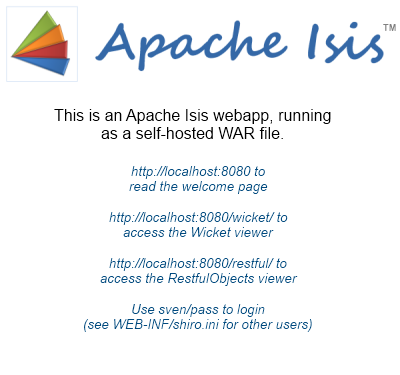
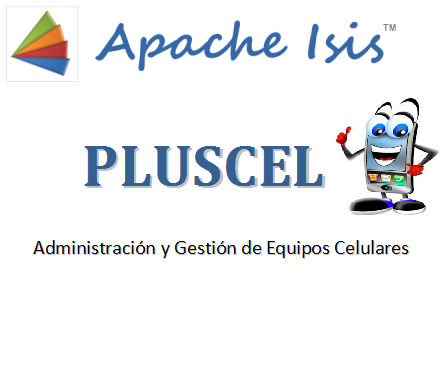
Modifico diseño de ingreso

diff --git a/webapp/src/main/webapp/about/index.html b/webapp/src/main/webapp/about/index.html
@@ -17,88 +17,38 @@
   specific language governing permissions and limitations
   under the License.
 -->
-<html>
-    <head>
-        <meta http-equiv="Content-Type" content="text/html; charset=ISO-8859-1">
-        <title>Apache Isis&trade; PlusCel</title>
-        
-        <style type="text/css">
-body {
-    background-color: #1A467B;
-    font-family: Verdana, Helvetica, Arial;
-    font-size: 90%;
-}
 
-li {
-    margin-top: 6px;
-    margin-bottom: 6px;
-}
-table {
-    border-collapse: collapse;
-}
-table, th, td {
-    border: 1px;
-    border-style: solid;
-    border-color: lightgray;
-}
-th, td {
-    padding: 10px;
-}
-#wrapper {
-    background-color: #ffffff;
-    width: 900px;
-    margin: 8px auto;
-    padding: 12px;
-}
-        </style>
-    </head>
-    <body>
-        <div id="wrapper">
-            <img alt="Isis Logo" src="about/images/isis-logo.png" />
-             
-            <p>
-            <a href="http://isis.apache.org" target="_blank">Apache Isis</a>&trade; is a framework to let you rapidly develop
-            domain-driven apps in Java.  This app has been generated using Isis' 
-            <a href="http://isis.apache.org/intro/getting-started/simple%61pp-archetype.html" target="_blank">SimpleApp</a> archetype,
-            which configures Isis to run a very simple and purposefully minimal application.
-            
-            <p>
-            The app itself consists of a single domain class, 
-            <a href="https://github.com/apache/isis/blob/master/example/application/simple%61pp/dom/src/main/java/dom/domainapp/dom/module/simple/SimpleObject.java"  target="_blank"><tt>SimpleObject</tt></a>,
-            along with an equally simple (factory/repository) domain service, <a href="https://github.com/apache/isis/blob/master/example/application/simple%61pp/dom/src/main/java/domainapp/dom/module/simple/SimpleObjects.java" target="_blank"><tt>SimpleObjects</tt></a>.
-            </p>
-
-            <p>To access the app:</p>
-            <ul>
-                <li>
-                    <p>
-                        <b><a href="wicket/">wicket/</a></b>
-                    </p>
-                    <p>
-                        provides accesses to a generic UI for end-users,
-                        Isis' <a href="http://isis.apache.org/components/viewers/wicket/about.html" target="_blank">Wicket Viewer</a>.
-                        As its name suggests, this viewer is built on top of <a href="http://wicket.apache.org" target="_blank">Apache Wicket</a>&trade;.
-                    </p>
-                </li>
-                <li>
-                    <p>
-                        <b>
-                            <a href="restful/">restful/</a>
-                        </b>
-                    </p>
-                    <p>
-                        provides access to a RESTful API conformant with the
-                        <a href="http://restfulobjects.org">Restful Objects</a> spec</td>.  This is part of Isis Core.  The
-                        implementation technology is JBoss RestEasy.
-                    </p>
-                </li>
-            </ul>
-
-            <p>
-            The default user/password is <b><i>sven/pass</i></b> (as configured in the
-            <a href="https://github.com/apache/isis/blob/master/example/application/simple%61pp/webapp/src/main/webapp/WEB-INF/shiro.ini" target="_blank">shiro.ini</a> file).
-            </p>
-            
-        </div>
-    </body>
-</html>
+<HTML>
+<HEAD>
+	<META HTTP-EQUIV="CONTENT-TYPE" CONTENT="text/html; charset=utf-8">
+	<TITLE></TITLE>
+	
+	<STYLE TYPE="text/css">
+	<!--
+		@page { margin: 2cm }
+		P { margin-bottom: 0.21cm }
+		A:link { so-language: zxx }
+	-->
+	</STYLE>
+</HEAD>
+<BODY LANG="es-ES" BGCOLOR="#FFFFFF" DIR="LTR">
+<P STYLE="margin-bottom: 0cm"><BR>
+</P>
+<P STYLE="margin-bottom: 0cm"><BR>
+</P>
+<P STYLE="margin-bottom: 0cm"><BR>
+</P>
+<P STYLE="margin-bottom: 0cm"><BR>
+</P>
+<P STYLE="margin-bottom: 0cm"><BR>
+</P>
+<P ALIGN=CENTER STYLE="margin-bottom: 0cm"><FONT COLOR="#3919BA"><FONT SIZE=7 STYLE="font-size: 96pt">PLUSCEL</FONT></FONT></P>
+<P ALIGN=CENTER STYLE="margin-bottom: 0cm"><FONT SIZE=7 STYLE="font-size: 20pt">Administración y Gestión de Equipos Celulares</FONT></P>
+<P ALIGN=CENTER STYLE="margin-bottom: 0cm"><BR>
+</P>
+<P ALIGN=CENTER STYLE="margin-bottom: 0cm"><A HREF="wicket/"><FONT SIZE=7 STYLE="font-size: 15pt">Ingresar
+al Sistema</FONT></A></P>
+<P STYLE="margin-bottom: 0cm"><BR>
+</P>
+</BODY>
+</HTML>

diff --git a/webapp/src/main/resources/domainapp/webapp/welcome.html b/webapp/src/main/resources/domainapp/webapp/welcome.html
@@ -17,19 +17,46 @@
   specific language governing permissions and limitations
   under the License.
 -->
-<p class="intro">
-    <a href="http://isis.apache.org" target="_blank">Apache Isis</a>&trade; is a platform to let you rapidly develop
-    domain-driven apps in Java.
-    <br/>
-    <br/>
-    This app has been generated using Isis' 
-    <a href="http://isis.apache.org/intro/getting-started/simple%61pp-archetype.html" target="_blank">SimpleApp</a> archetype,
-    which configures Isis' most commonly used components as part of a very simple and purposefully minimal application.
-    <br/>
-    <br/>
-    The app itself consists of a single domain class, <a href="https://github.com/apache/isis/blob/master/example/application/simple%61pp/dom/src/main/java/dom/simple/SimpleObject.java"  target="_blank">SimpleObject</a>,
-    along with an equally simple (factory/repository) domain service, <a href="https://github.com/apache/isis/blob/master/example/application/simple%61pp/dom/src/main/java/dom/simple/SimpleObjects.java"  target="_blank">SimpleObjects</a>.
-    <br/>
-    <br/>
-    For more details, see the <a href="http://isis.apache.org/documentation.html" target="_blank">Isis website</a>.
-</p>
+
+<HTML>
+<HEAD>
+	<META HTTP-EQUIV="CONTENT-TYPE" CONTENT="text/html; charset=utf-8">
+	<TITLE></TITLE>
+	<META NAME="GENERATOR" CONTENT="LibreOffice 4.1.3.2 (Linux)">
+	<META NAME="AUTHOR" CONTENT="Leandro ">
+	<META NAME="CREATED" CONTENT="20140625;94000587006019">
+	<META NAME="CHANGEDBY" CONTENT="Leandro ">
+	<META NAME="CHANGED" CONTENT="20140625;94554719225276">
+	<STYLE TYPE="text/css">
+	<!--
+		@page { margin: 2cm }
+		P { margin-bottom: 0.21cm }
+		A:link { so-language: zxx }
+	-->
+	</STYLE>
+</HEAD>
+<BODY LANG="es-ES" BGCOLOR="#e3e3d9" DIR="LTR">
+<P STYLE="margin-bottom: 0cm"><BR>
+</P>
+<P STYLE="margin-bottom: 0cm"><BR>
+</P>
+<P STYLE="margin-bottom: 0cm"><BR>
+</P>
+<P STYLE="margin-bottom: 0cm"><BR>
+</P>
+<P STYLE="margin-bottom: 0cm"><BR>
+</P>
+<P ALIGN=CENTER STYLE="margin-bottom: 0cm"><FONT COLOR="#06006a"><FONT SIZE=7 STYLE="font-size: 96pt">SIGES</FONT></FONT></P>
+<P ALIGN=CENTER STYLE="margin-bottom: 0cm">Sistema Integral de
+Gestión de Escuelas Secundarias</P>
+<P ALIGN=CENTER STYLE="margin-bottom: 0cm"><BR>
+</P>
+<P ALIGN=CENTER STYLE="margin-bottom: 0cm"><BR>
+</P>
+<P ALIGN=CENTER STYLE="margin-bottom: 0cm"><BR>
+</P>
+<P ALIGN=RIGHT STYLE="margin-bottom: 0cm">Powered by Apache ISIS     
+ 
+</P>
+</BODY>
+</HTML>
